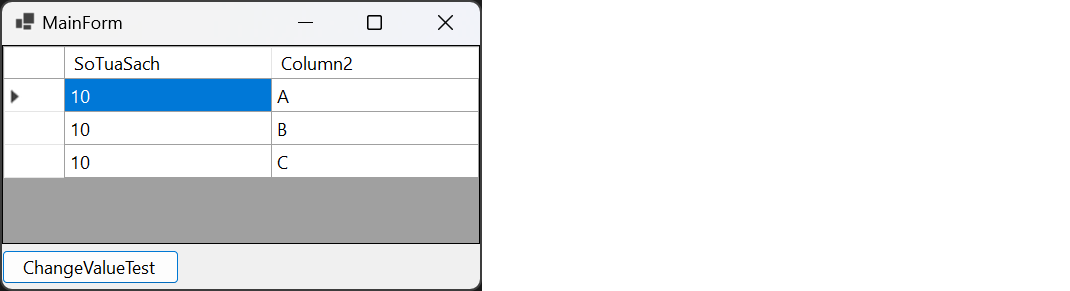
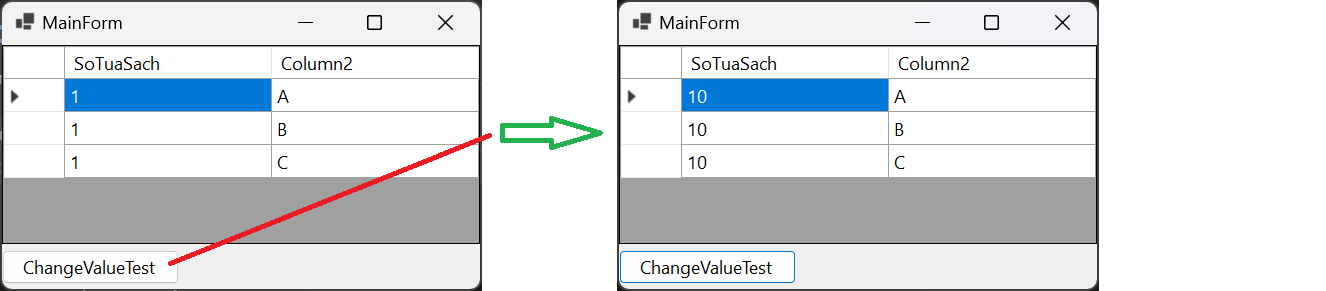
https://stackoverflow.com/a/74843666/5438626

diff --git a/README.md b/README.md
@@ -1,11 +1,7 @@
-
 [![screenshot][1]][1]
 
-Binding the `TheLoaiGrid.DataSource` to the `TheLoaiList` that's _good_ because you can change what's in the `DataGridView` by changing `TheLoaiList`.
+Your [code](https://stackoverflow.com/q/74843259/5438626) shows you are on the right track! Binding the `TheLoaiGrid.DataSource` to the `TheLoaiList` that's _good_ because you can change what's in the `DataGridView` by changing `TheLoaiList`. The next step you might want to try is making the _items_ in the list work the same way (using binding) so that when you do your loop, you can modify the _data_ not the `DataGridViewRow`:
 
-Next, one option is to have the _items_ in the list can work like that, too, so that when you do your loop, you can work with the _data_ not the `DataGridViewRow`:
-
-    // Now perform change the value on the Data not the DataGridView
     foreach (TheLoai theLoai in TheLoaiList)
     {
         theLoai.SoTuaSach = "10"; 
@@ -16,7 +12,7 @@ For this to work, it requires a small change to the class that represents your r
 
     BindingList<TheLoai> TheLoaiList { get; } = new BindingList<TheLoai>();
 
-Then here's an example of how to notify the `DataGridView` when a property changes using `INotifyPropertyChanged`:
+Then here's an example of how to automatically notify the `DataGridView` when a property changes using `INotifyPropertyChanged`:
 
     // using System.Runtime.CompilerServices;
     class TheLoai : INotifyPropertyChanged
@@ -54,6 +50,5 @@ Then here's an example of how to notify the `DataGridView` when a property chang
         }
     }
 
-***
 
-  [1]: https://i.stack.imgur.com/is7jg.png
+  [1]: https://i.stack.imgur.com/WGL6q.png
